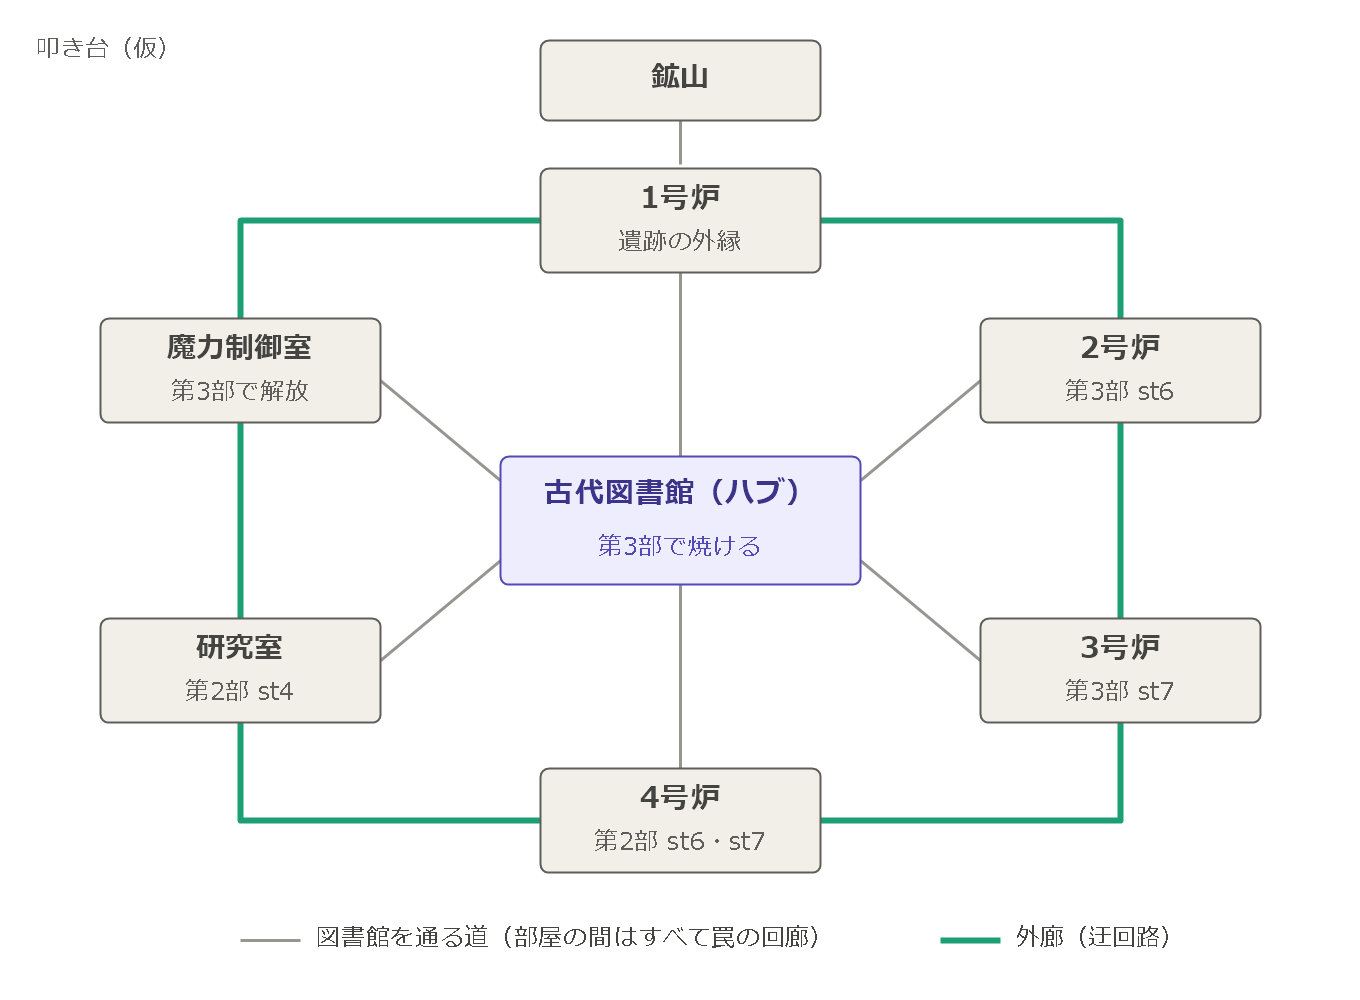
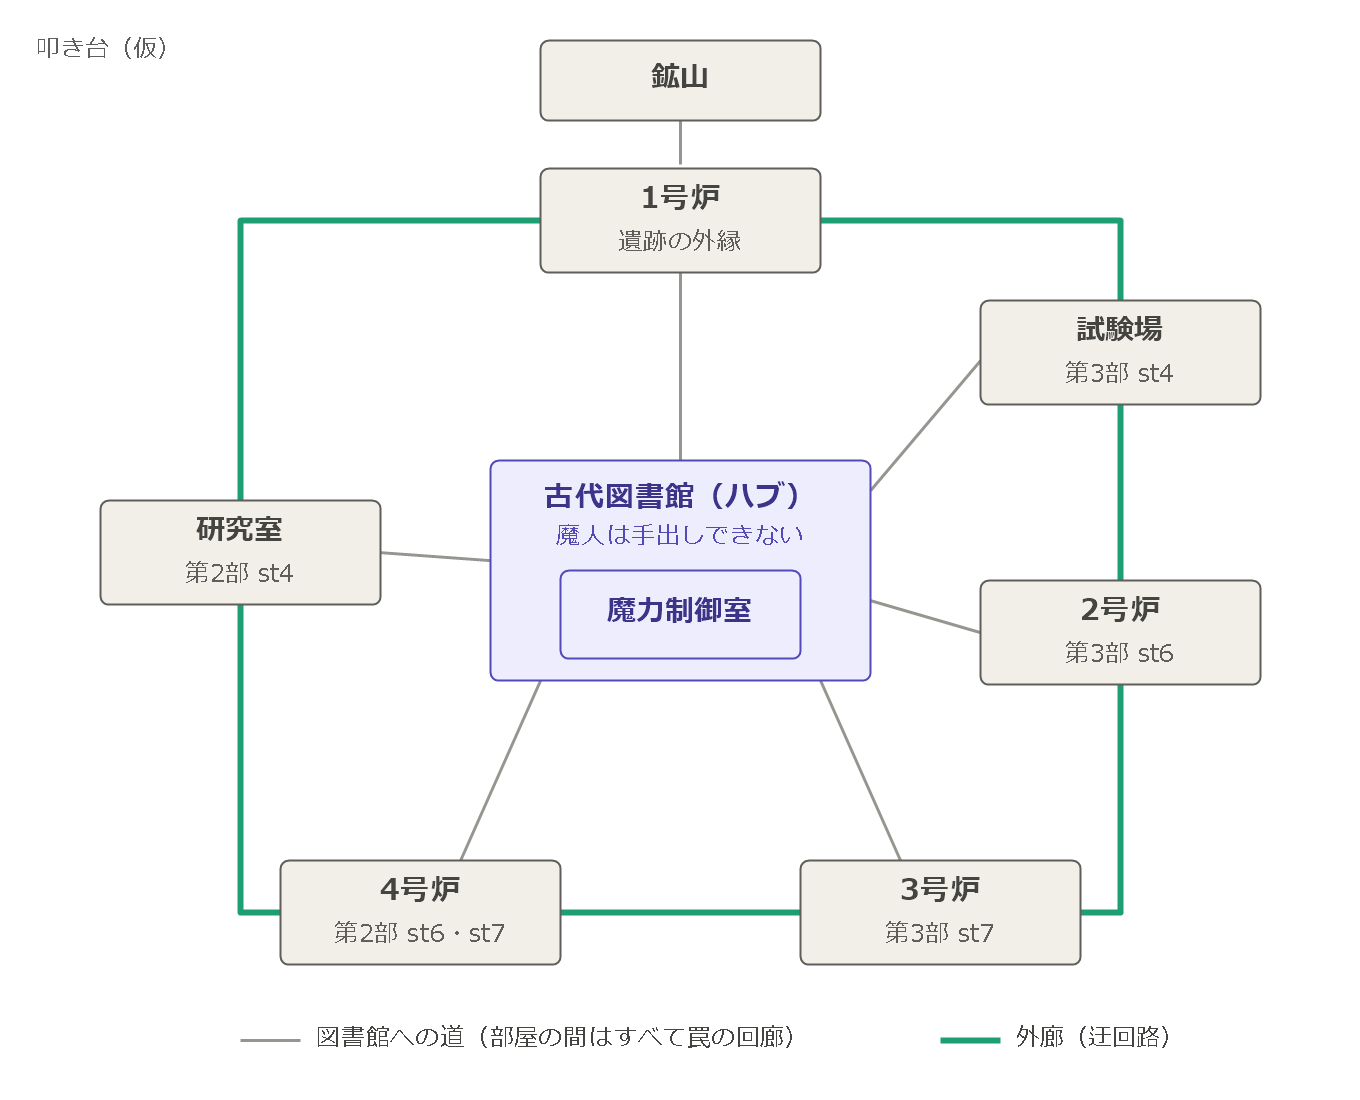
docs(campaign): 古代遺跡 第3部の仮案を練る（図書館は焼かない・魔人の騙し方・試験場の分断）
- 図書館は焼かない。魔力制御室は図書館の中に置き、図書館と制御室では魔法も火器も使えず魔人も手出しできない
- 扉は魔人が開け閉めできるが、一行はそれを知らない。古代の金属で壊せず、進むしかない
- 魔人は管理システムを名乗り、通話装置で嘘の操作を教えて供給を解放させる。st2 の1号炉で正体を明かす
- st4 試験場: 途中で障壁が立ち盤が2つに分かれる。見取り図と地図に試験場を足す
- 第2部 st7 の地鳴りを「外側の扉が一斉に閉まる音」に、st5 に合流できる分断のイメージを添える

diff --git a/doc/campaign/ancientruins.md b/doc/campaign/ancientruins.md
@@ -64,9 +64,11 @@
 
 シナリオを練るための叩き台。図 → [ancientruins_map.png](ancientruins_map.png)
 
-- 古代図書館が中央のハブ。周りに6つの部屋が、時計回りに1号炉・2号炉・3号炉・4号炉・研究室・魔力制御室の順に並ぶ。鉱山から入るのは1号炉（遺跡の外縁）。
+- 古代図書館が中央のハブ。魔力制御室は図書館の中にある（図書館の一部）。周りに6つの部屋が、時計回りに1号炉・試験場・2号炉・3号炉・4号炉・研究室の順に並ぶ。鉱山から入るのは1号炉（遺跡の外縁）。
 - すべての部屋は図書館とつながる。部屋と部屋の間の道は、すべて罠の回廊。
-- 図書館を通らない迂回路として、6つの部屋を環状につなぐ外廊がある（第3部で図書館が焼けるため）。
+- 図書館を通らない迂回路として、周りの部屋を環状につなぐ外廊がある。
+- 図書館と魔力制御室の中では、魔法も火器も使えない（間接攻撃ができない → [ancientruins2-ruins.md](ancientruins2-ruins.md) st3）。魔人もこの2か所には手出しできない。
+- 扉は、図書館の扉も含めて、魔人が開け閉めできる。魔人が何もできないのは図書館と制御室の中だけで、それより外（回廊・外廊・周りの部屋）は自由に操作できる（第3部 → [ancientruins3-ancient-weapon.md](ancientruins3-ancient-weapon.md) 遺跡の中の決まり）。
 
 ## 魔力炉と魔人
 
@@ -103,7 +105,7 @@
 4. 研究者の1人が3号炉を切った。燃料を燃やせなくなった魔人は、3号炉の前で力尽きた。
 5. 炉を切った研究者も傷を負っていた。炉を切っただけでは魔人も炉も完全には失われないと知っていたが、自分では何もできない。研究室（図書館の隣）で、魔人を完全に止める方法を本に書き残して息絶えた（下記 古代図書館と持ち出した本）。遺体は残っていない（第2部 st4 の研究室に亡骸は無い）。
 6. 供給は4号炉にだけ続いていた（だから第2部で学者は魔人になれた）。第2部 st6 で4号炉を組み上げたとき、4号炉に大量の魔力が流れ、3号炉にも少し漏れた。これで魔人が目を覚ました。
-7. 目を覚ました魔人は、魔力制御室の扉を開けた（第2部 st7 の戦闘後の地鳴り。音は図書館の方から聞こえる）。供給装置そのものは動かせないので、調査隊に解放させる下準備。
+7. 目を覚ました魔人は、遺跡の外側の扉を一斉に閉めた（第2部 st7 の戦闘後の地鳴り）。調査隊を遺跡に閉じ込め、供給装置を解放させる下準備。
 
 ### 魔人は盤に出る — 魔力が切れて弱る
 
@@ -113,23 +115,23 @@
 
 ### 古代図書館と持ち出した本
 
-- **第2部 st3 に古代図書館が出てくる。** 機械と魔法で管理された図書館。ここで遺跡が「究極の生命体」を研究していたと分かる。図書館の中では間接攻撃ができない（詳細 → [ancientruins2-ruins.md](ancientruins2-ruins.md) st3）。
+- **第2部 st3 に古代図書館が出てくる。** 機械と魔法で管理された図書館。ここで遺跡が「究極の生命体」を研究していたと分かる。図書館の中では間接攻撃ができない（詳細 → [ancientruins2-ruins.md](ancientruins2-ruins.md) st3。魔力制御室も同じ → 上記 遺跡の見取り図）。
 - **ウィッチと銃の技師が、隣の研究室の本（図書館から正式に貸し出し済み＝持ち出せる）をこっそり持ち出す**（第2部 st4）。持ち出すのは「炉」の本。3号炉を切った研究者が、魔人を完全に止める方法を書き残した本（上記 太古の経緯）。魔人は本を眼中に入れていなかったので、処分されずに残った。
-- **第3部の後半で魔人が図書館を焼く。** 調査隊が魔力炉を調べていると知り、彼らに魔力炉を使わせないため。炉に関する書類が焼けるが、2人が持ち出していた本から、魔人の弱点が魔力だと知る（下記 第3部の流れ）。
+- 図書館は焼かない（仮案）。図書館の中では魔法も火器も使えず、魔人も手出しできないため。
 - **第3部 st7 の戦闘後、本から炉の止め方が分かる。** 炉は小さな魔力をフィードバックでブーストする仕組みで、あふれないよう一定量を超えるとブーストを止める安全弁が付いている。安全弁を壊せば魔力があふれ、炉は完全に壊れる（詳細 → [ancientruins3-ancient-weapon.md](ancientruins3-ancient-weapon.md) st7）。
 
 ### 第3部の流れ — 魔人に翻弄される
 
 遺跡に潜るというよりは、魔人に翻弄される流れ。
 
-- 魔人は炉を自分で動かせない。古代の学者が魔人の力を恐れ、動力を自分で制御できない安全装置を組み込んだ。だから調査隊に魔力制御室の供給装置を解放させる。
+- 魔人は炉を自分で動かせない。古代の学者が魔人の力を恐れ、動力を自分で制御できない安全装置を組み込んだ。だから調査隊に魔力制御室の供給装置を解放させる。安全装置が封じているのは魔力の供給（動力）の制御だけで、炉にすでにある魔力で小物を作るのは、遺跡の機能として魔人にもできる（第3部で通話装置を作る → [ancientruins3-ancient-weapon.md](ancientruins3-ancient-weapon.md) 魔人の騙し方）。
 - 調査隊が奥へ進むのは、帰れないから。来た道を遺跡が閉じ、開いている道は奥だけになる。
 - 供給装置を解放させた後に始末しにかかるのは、用済みで、しかも脅威だから。解放できた者は、止めることもできる。
 - 魔人は、調査隊が思いのほか強く、遺跡に残る魔物や機械では全滅させられないと知る。そこで自分の手で始末するため、3号炉へ招き入れる。調査隊には3号炉へ行く理由が無い（解放したのは供給装置）ので、3号炉へ向かうのは魔人に招かれてのこと。
 
 1. 最初、魔人は直接出てこない（プレイヤーには示唆する形で見せる）。遺跡を操作して調査隊を奥へいざない、魔力制御室の供給装置を解放させる。
 2. 魔人が正体を明かし、調査隊に接触してくる。魔力が回復していないので声だけ。遺跡の機能を操作して調査隊を始末しようとする。
-3. 後半、魔人が古代図書館を焼く。炉に関する書類が焼けるが、ウィッチと銃の技師が持ち出していた本から、魔人の弱点が魔力だと知る。
+3. 調査隊は、魔人が魔力で動いていると知る（st2 で魔人自身が「魔力が戻りつつある」と言う → [ancientruins3-ancient-weapon.md](ancientruins3-ancient-weapon.md)。仮案）。
 4. 魔人も気づき、調査隊を始末しようと追い詰めてくる。遺跡の魔物や機械では全滅させられないと知り、3号炉へ招き入れる。
 5. 最後、3号炉で魔人と戦う。魔人は倒しても炉の力で復活するので、炉を壊して魔人を倒す。それでも炉は再生する。
 6. 完全に止めるには、炉の安全弁を壊して魔力をあふれさせる。炉は完全に壊れる。全員がこれを選ぶ（下記 一行の最終判断）。炉からエネルギーが溢れ出し、遺跡は崩壊する。
@@ -298,7 +300,7 @@
   - 1ターンに2回攻撃する駒（術と近接を1回ずつ）と、2本の規則で狙いを決める新しい AI 特性（[../gdd/ai.md](../gdd/ai.md)）。
 
 **第2部から**
-- 間接攻撃を封じる区域: 図書館の中では、味方の間接攻撃ができない。敵（司書）は対象外（st3。仕組みの置き場＝地形か盤の設定かは未決）。
+- 間接攻撃を封じる区域: 図書館の中（第3部では魔力制御室も）では、味方の間接攻撃ができない。敵（司書）は対象外（st3。仕組みの置き場＝地形か盤の設定かは未決）。
 - 決まったターンの到来で決着する勝利条件（st6。今の勝利条件に無い → [../gdd/map.md](../gdd/map.md)。足すか別の形で表すかは未決）。
 - 魔人の弱体化: 魔力が切れると値が下がるボス（st7）。**切れ方は時間**＝未完成の炉なので決まったターン数で尽きる（決定）。弱り方の仕組みは未決。
 

diff --git a/doc/campaign/ancientruins3-ancient-weapon.md b/doc/campaign/ancientruins3-ancient-weapon.md
@@ -10,26 +10,49 @@
 
 | # | 舞台 | 何が起きるか |
 |---|---|---|
-| 1 | 魔力制御室 | 開いているのは制御室への道だけなので、進むしかない。制御室の仕掛けは魔人の手が及ばないので、制御できずに襲ってくる。これを退け、魔人の声に従って3号炉への魔力供給を始める（調査隊には何が起きているか分からない）。1号炉への外廊の扉が開き、「そこを抜けると入口の部屋に行けるよ」と魔人に感謝され、素直に向かう |
-| 2 | 外廊 | 制御室を出た瞬間に扉が閉まる。「君たちのおかげで魔力が戻りつつあるよ。退屈しのぎに、君たちで遊ぼうと思う」と魔人が本性を現し、外廊の罠や装置を動かして襲ってくる。抜けて1号炉へ |
-| 3〜5 | 未決 | 1号炉では戦闘しない（今のところ）。外への扉は閉じていて、中へ向かう扉しか開いていない。どこかで魔人が図書館を焼く |
+| 1 | 魔力制御室（図書館の中） | 一行は4号炉で魔人から通話装置を受け取り、図書館の中の制御室へ向かう。制御室の中では魔法も火器も使えない（間接攻撃ができない）。制御室の仕掛けは魔人の手が及ばないので、制御できずに襲ってくる。これを退け、通話装置ごしの魔人（管理システムを名乗る）の指示どおりに操作する。一行は供給を止めたつもりで、実際は3号炉への魔力供給を解放してしまう |
+| 2 | 1号炉 | 扉が開き、魔人が帰り道を教える（嘘）。一行は入ってきた道を戻って1号炉（入口の部屋）へ入るが、その瞬間に図書館への扉が閉まり、鉱山への扉も閉まっている。魔人が正体を明かし、戻った魔力で作った魔物や機械をぶつけてくる。戦闘後、一行は「これのせいで監視されているのかもしれない」と通話装置を壊すが、魔人の声は遺跡そのものから響く |
+| 3 | 通路（1号炉 → 試験場） | 一行は出口を探して、開いている所へ進むしかない。中身は未決 |
+| 4 | 試験場 | 戦闘の途中で障壁が立ち、盤が2つに分かれる（下記 st4） |
+| 5 | 通路（試験場 → 2号炉） | 中身は未決 |
 | 6 | 2号炉 | 2号炉の失敗作と戦う |
 | 7 | 3号炉 | 完全体の魔人と戦う |
 
 **遺跡の中の決まり（仮案）**
 
-- 一度制圧した所では、再び襲われない。魔人は「君たちが壊したものを直すのが面倒だから、代償として遊んでもらうよ」と言う（本当は直す気も無い）。
-- 扉の制御だけは、魔人にもできる。
-- 魔人の制御が及ばないのは、魔力制御室と研究室。
+- 扉は、図書館の扉も含めて、魔人が開け閉めできる。
+- 魔人が何もできないのは、図書館とその一部の魔力制御室の中だけ。この2か所では魔法も火器も使えない（[ancientruins.md](ancientruins.md) 遺跡の見取り図）。それより外では、魔人は遺跡を自由に操作でき、遺跡そのものから話しかけられる。
+- 一行は、魔人が扉を操作できることを知らない。扉が閉まる理由は分からず、古代の金属なので今の世界の技術では壊せない（古代の盾と同じ金属）。だから進むしかない。
+- 図書館は焼かない。
+
+**魔人の騙し方（仮案）**
+
+- 一行の目的は「帰りたい」。
+- 魔人は、遺跡の管理システムを名乗る。最初は丁寧に接し、供給を解放させた後に正体を明かす（st2）。
+- 魔人の言い分: 「第2部の学者と研究者が炉を動かしてしまったので、システムの安全装置が作動して扉が閉まりました。制御室で魔力の供給を止めれば安全になるはずです。私の手が及ばない場所なので、君たちにお願いしたい」。実際は逆で、一行は供給を解放してしまう。扉が閉じたこと（閉めたのは魔人）・制御室に手が及ばないことは本当で、嘘に本当を混ぜている。
+- 第3部の始まりで、魔人は4号炉で小さな通話装置を作り、一行に渡す。図書館や制御室には魔人の力は及ばないが、通話はできる。通話装置が要るのは、図書館と制御室で話すためだけ。
+- 制御室の装置には古代の文字の表示しかなく、一行には読み取れない部分がある。一行は通話装置で対処のしかたを聞き、嘘の操作を教えられる。
+- 図書館に力が及ばない理由を、魔人は「なぜか分からない」と言う。一行は、自分たちが司書を壊したせいではないかと思い、少し罪悪感を抱く。
+- 正体を明かしても、扉を操作できることは言わない。
+- 本心は始末する（用済みで、しかも脅威だから）。ただ魔力がまだ戻りきらず自分の手は下せないので、口では「遊ぶ」と言って余裕を装う。話を追って、余裕（「遊んであげる」）→ 余裕が崩れる（「それほど強いとは思っていなかった」）→ st7 で自分の手で始末しに出てくる、と変わる。
 
 **未決**
 
-- 図書館での戦闘。叩き台では、図書館で遺跡と炉の情報を探し始めた一行に魔人が怒って図書館を焼き払い、復活した守護者（司書）が再び襲ってくる、としていた。図書館は第2部 st3 で制圧済みなので、上の決まりと食い違う。
-- 図書館をどう焼くか（図書館の中では魔法も火器も使えない → [ancientruins2-ruins.md](ancientruins2-ruins.md) st3）。
-- 本から「魔人の弱点は魔力」と分かる場面をどの話に置くか。
+- 本を開く場面（第7話で安全弁の話が出る前に、本をどう扱うか）。
 - 2号炉の敵の呼び名。
 
 ## ステージ詳細
+
+### st4 試験場（仮案）
+
+**状況**: 1号炉と2号炉の間の部屋。太古の研究者が、作った失敗作の力を試した場所。被験体どうしを隔てる障壁と、その制御盤がもともと備わっている。魔人にとっては、一行を遊ばせる闘技場。
+
+- 戦闘の途中で、炎や雷の障壁が立ち、盤が完全に2つに分かれる（合流できない）。盤の上では進入できない壁で、飛行の駒も通れない。見た目と理由づけは「通ったら死ぬ」炎や雷。
+- 分かれ方は、障壁が立つときに駒が立っている位置で決まる。
+- 障壁が立つことは、魔人が前もって教えてくる（遊んでいるので）。プレイヤーは分かれ方を選べる。
+- それぞれの側でスイッチを操作しないと、扉は開かない。
+- 勝利条件は、マップを組むときに決める。
+- 障壁を罠（踏むと効く仕掛け）にしないのは、罠は通り抜けでは発動しないため（[../gdd/gimmicks.md](../gdd/gimmicks.md) 踏む）。
 
 ### st6 2号炉（仮案）
 

diff --git a/doc/campaign/ancientruins2-ruins.md b/doc/campaign/ancientruins2-ruins.md
@@ -238,7 +238,7 @@ st1 以外は仮置き。st1 から順に詰める（[authoring.md](authoring.md
   - **帝国組**: 帝国の研究者・盾の技師・銃の技師・調査技師
   - **魔法王国組**: 魔法王国の学者・ウィザード・ウィッチ・マジックナイト。**竜の子はウィッチについていく**
   - **ドワーフは分かれ道で見張り番**（どちらの国でもない）
-- **盤の問い: 未決。** 二手に分かれた盤の作り（1つの盤で左右の通路か、2つの盤か）・門番の有無も未決。「魔力の管を壊して供給を断つ」案は第3部に回した（決定）。
+- **盤の問い: 未決。** 二手に分かれた盤の作り（1つの盤で左右の通路か、2つの盤か）・門番の有無も未決。イメージは、盤の上で部屋は分かれていても、すぐに合流できる形（第3部 st4 の、合流できない分断とは分ける → [ancientruins3-ancient-weapon.md](ancientruins3-ancient-weapon.md) st4）。「魔力の管を壊して供給を断つ」案は第3部に回した（決定）。
 - 盤・勝敗条件・数・戦闘後の会話: 未決。
 
 #### 会話（戦闘前）
@@ -346,13 +346,13 @@ st1 以外は仮置き。st1 から順に詰める（[authoring.md](authoring.md
 > _（小さな竜が、ウィッチの頬に頭をすり寄せる）_
 > **ウィザード**: ……よく止めた。
 > 効果音：ゴゴゴゴ……（sound:deep_rumble）
-> _（図書館の方から地鳴り）_
+> _（遺跡のあちこちから、重い扉が閉まる音）_
 > **盾の技師**: 何だ……。炉は止まったはずだ。
-> **銃の技師**: この音、4号炉じゃないです。図書館の方から。
+> **銃の技師**: この音、4号炉じゃないです。扉が……あちこちで閉まってます。
 > _（小さな竜が、ウィッチの腕の中で震えている）_
 
 - 台本の意図（戦闘前）: 話者名は「変わり果てた学者」（一行はまだ「魔人」を知らない）。「魔人」という言葉は学者自身に言わせて初出にする。研究者は魔人にすり寄り（「私は、味方だろう？」）、「機械の側は、もう要らん」で殺される＝卑怯者の最期。それまでの卑怯さがまとめて返ってくるので、「かわいそう」だけで終わらせない。マジックナイトの「強欲と狡猾の成れの果てとして覚えておく」＝学者（強欲）と研究者（狡猾）の末路を見届け、国の命令ではなく自分の意思で戦う転機。
-- 台本の意図（戦闘後）: 調査技師の後悔（面倒くさがりの自分を責める）で「意外と優しい」を締める。ウィッチが自分も光に入るところだったと知り、止めてくれた竜の子を抱く（st6 の回収）。ウィザードの「よく止めた」は竜の子へ。図書館の方からの地鳴り＝目を覚ました完全体の魔人が魔力制御室の扉を開けた音で、第3部へ（[ancientruins.md](ancientruins.md) 太古の経緯）。
+- 台本の意図（戦闘後）: 調査技師の後悔（面倒くさがりの自分を責める）で「意外と優しい」を締める。ウィッチが自分も光に入るところだったと知り、止めてくれた竜の子を抱く（st6 の回収）。ウィザードの「よく止めた」は竜の子へ。あちこちで扉が閉まる音＝目を覚ました完全体の魔人が遺跡の外側の扉を一斉に閉めた（閉じ込めの始まり）音で、第3部へ（[ancientruins.md](ancientruins.md) 太古の経緯）。
 - 効果音 `stab_heavy`・`deep_rumble` は素材が無ければ新規調達。
 
 ## 関連ドキュメント
